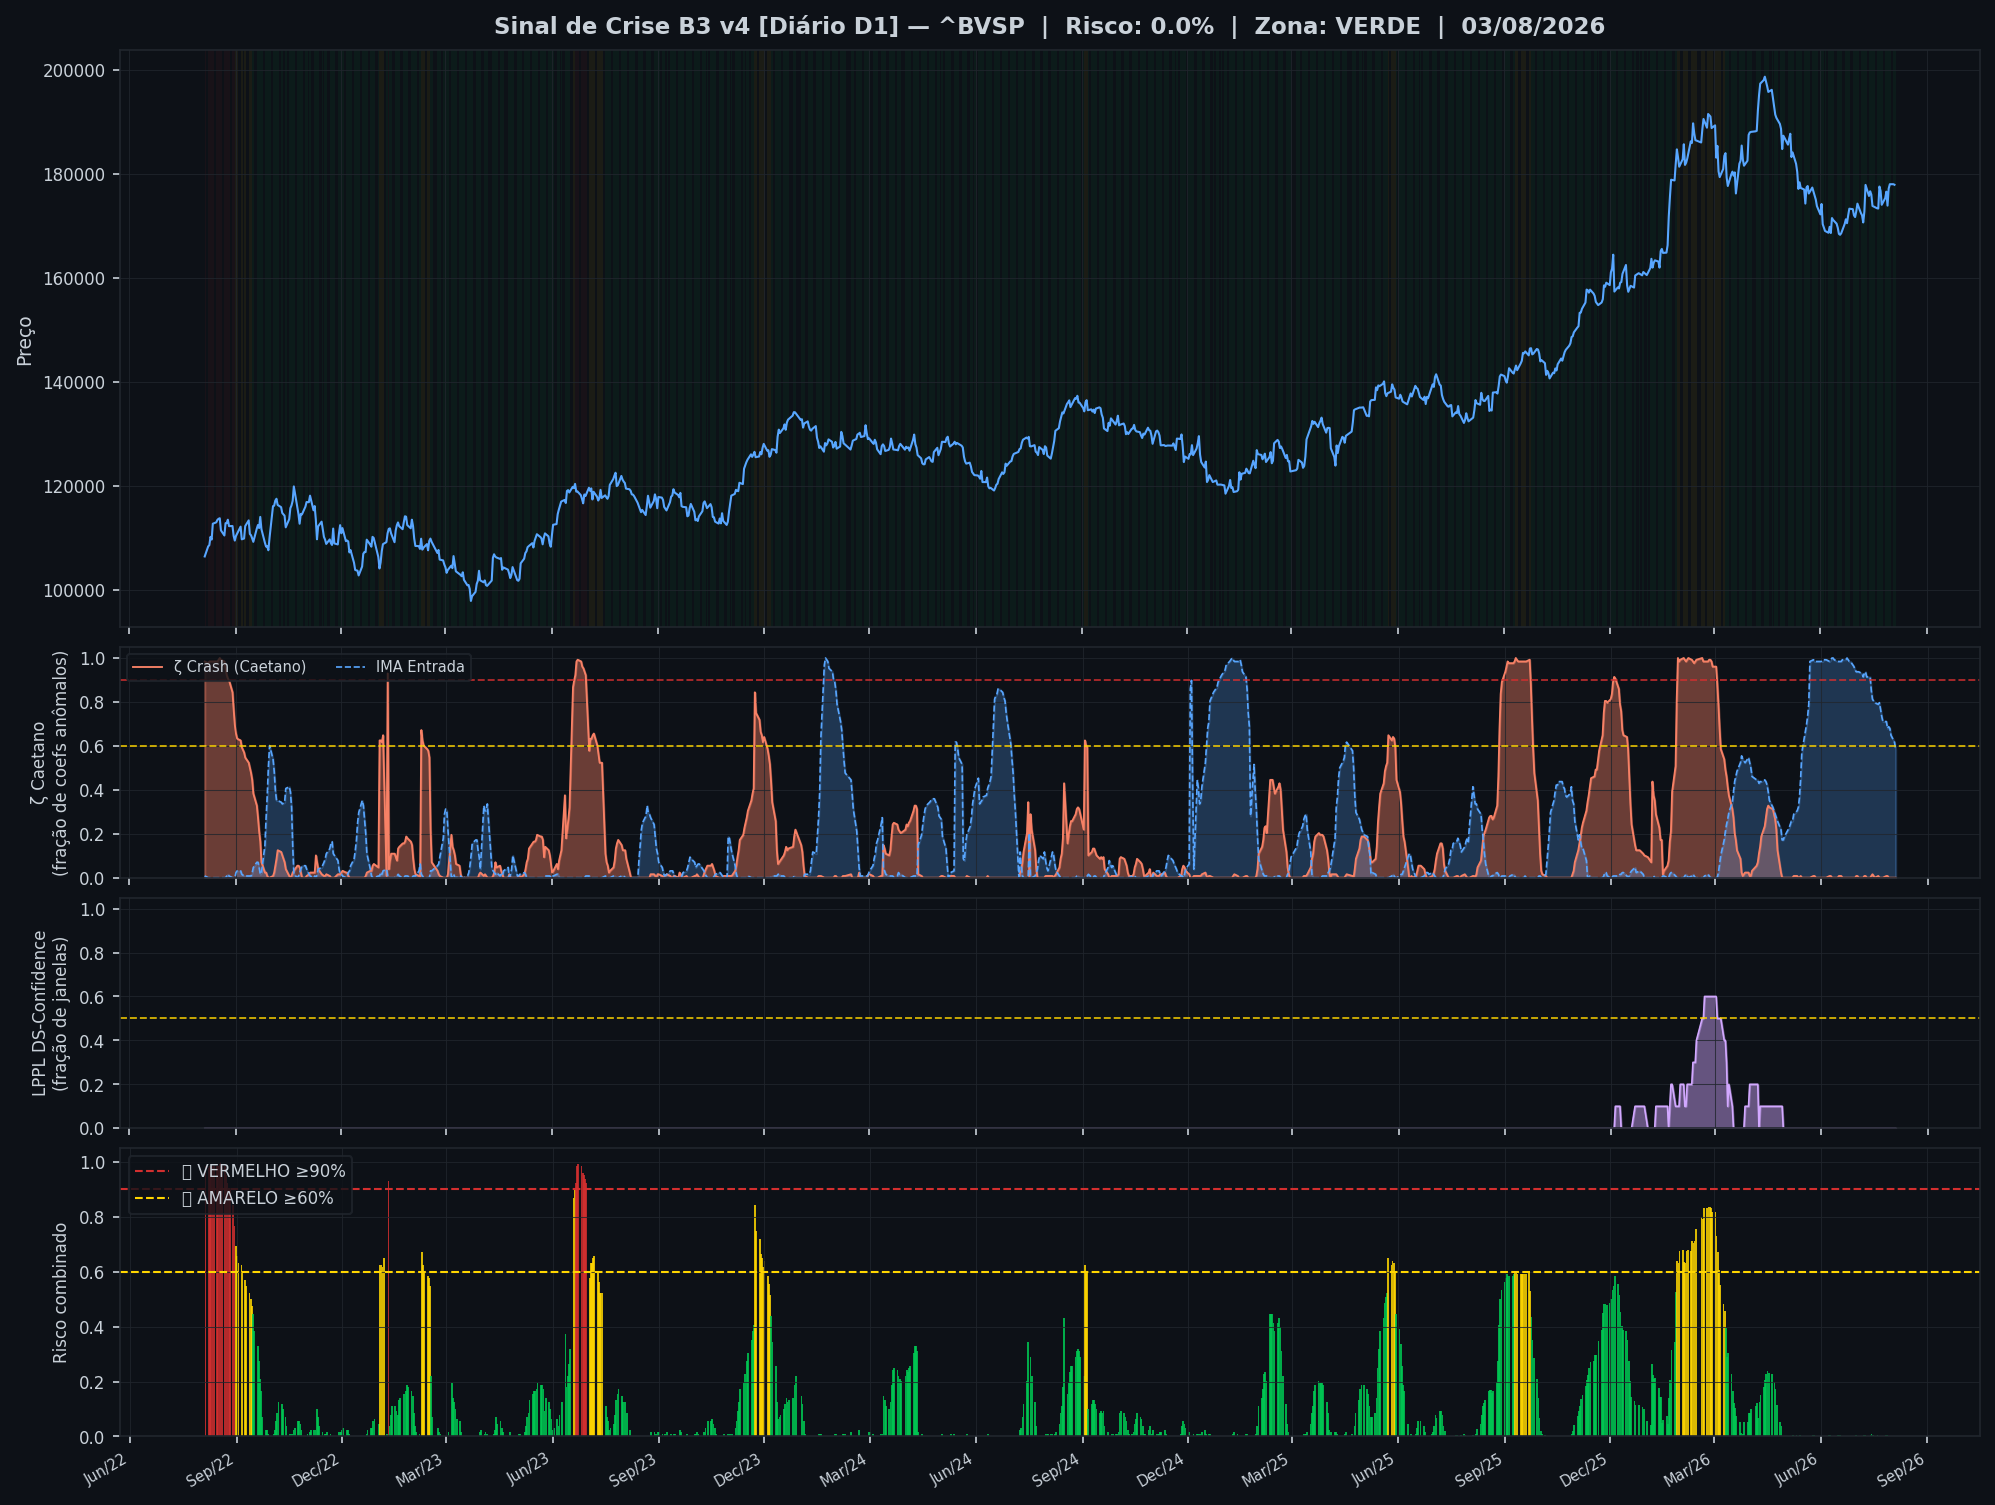
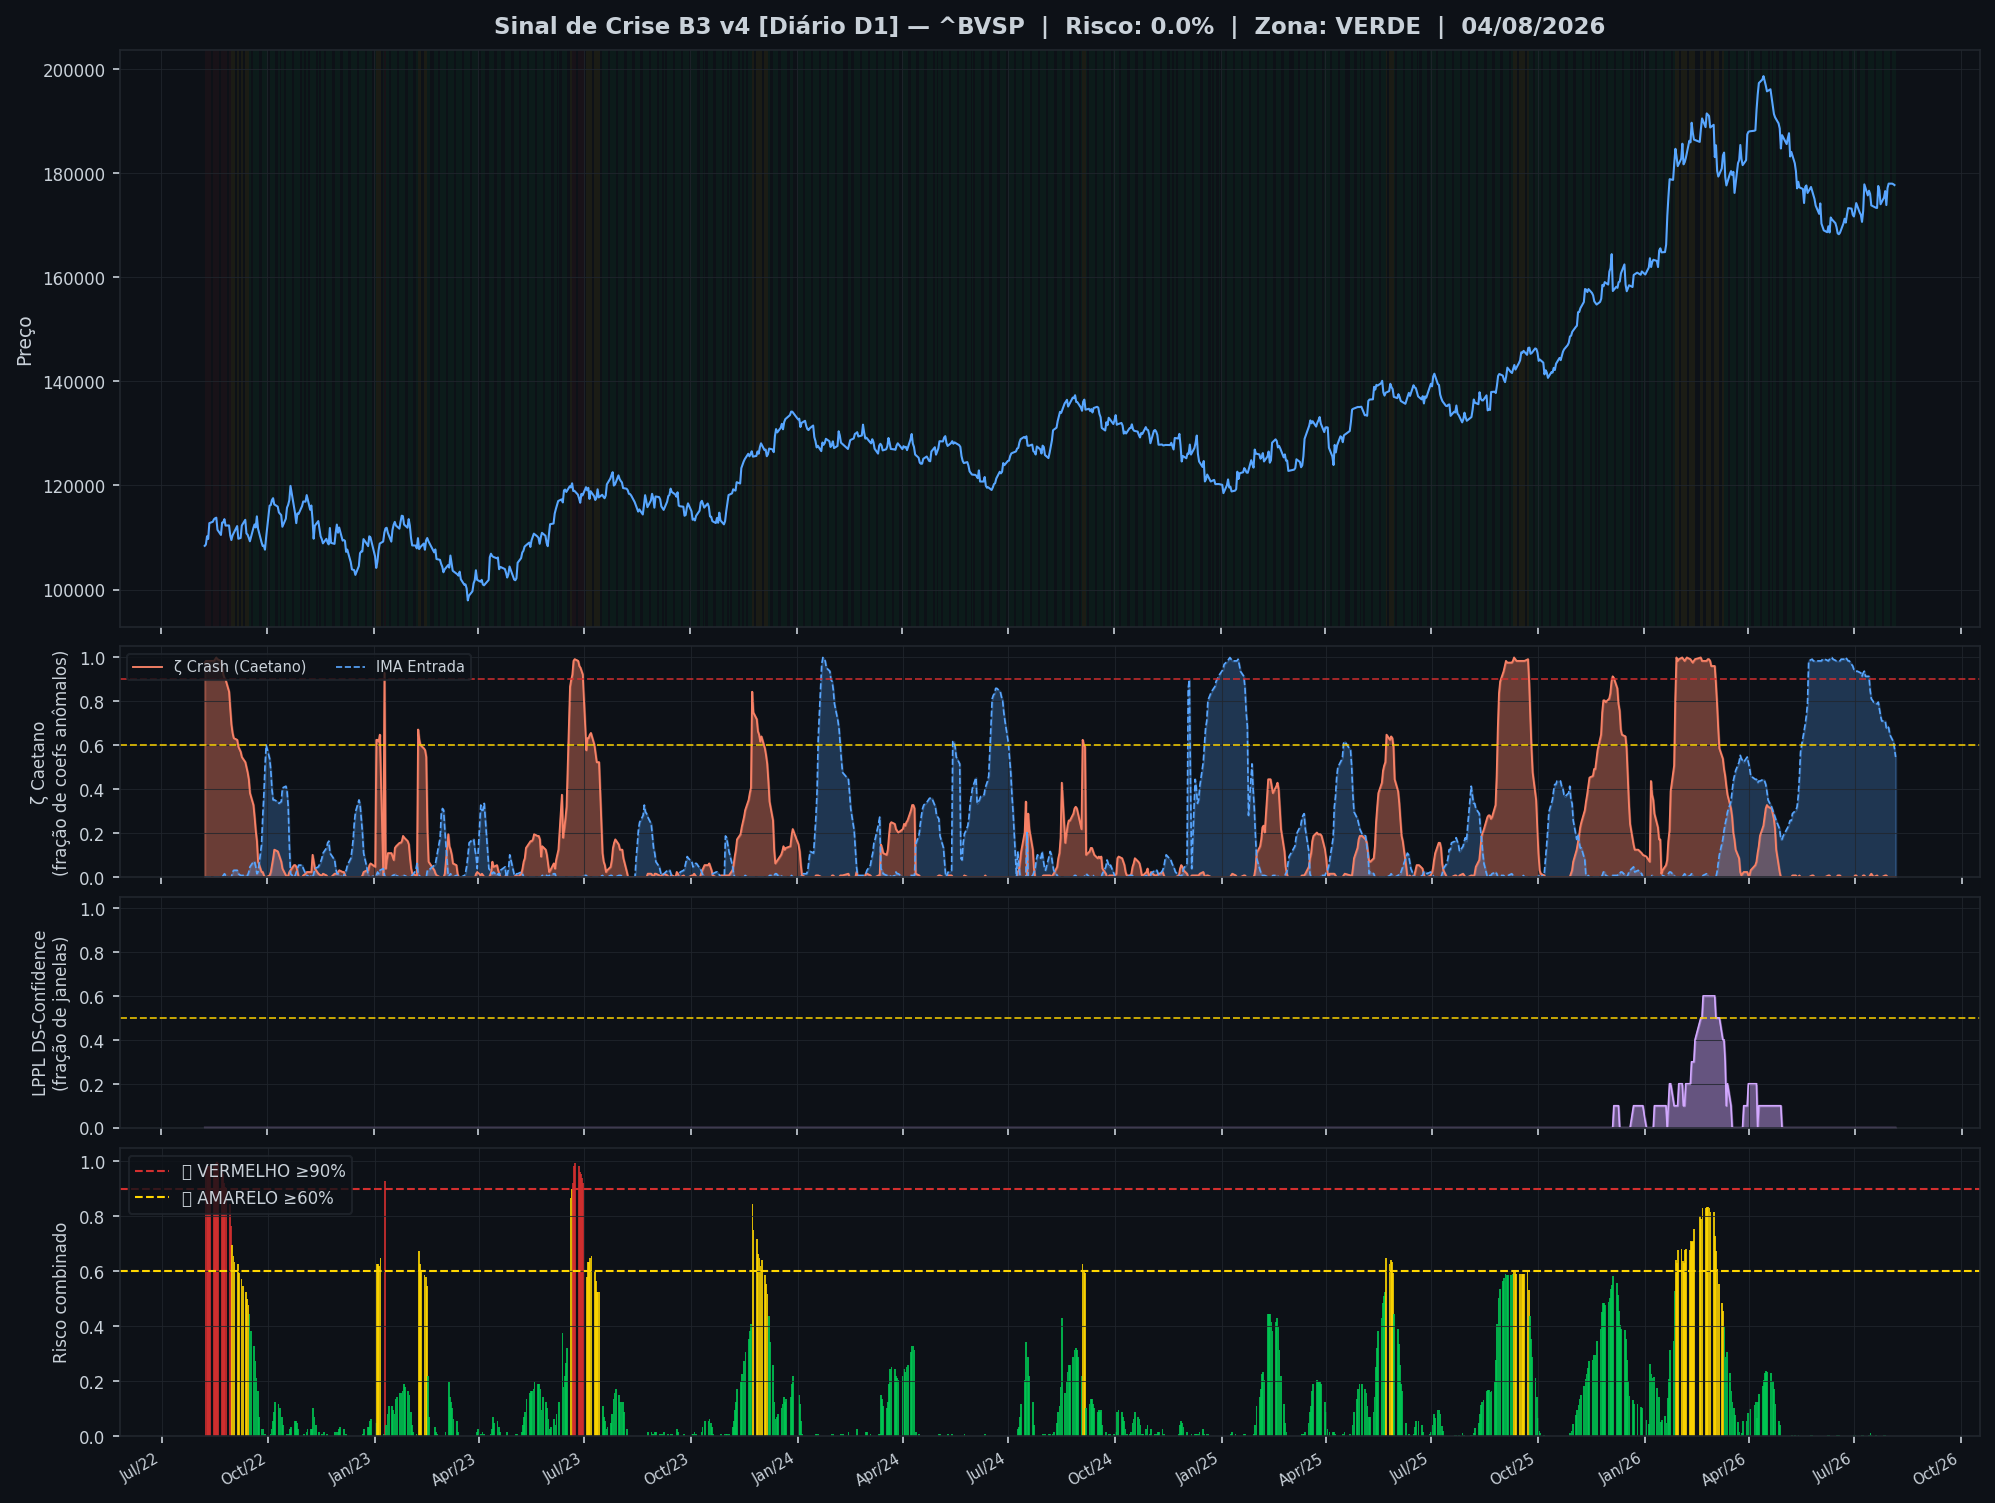
🤖 Auto: Sinal 05/08/2026 19:00

diff --git a/content/diario/2026-08-04.md b/content/diario/2026-08-04.md
@@ -1,0 +1,105 @@
+---
+title: "🟢 Diário 04/08/2026 — VERDE"
+date: 2026-08-05
+tags: [diario]
+---
+
+> [!success] 🟢 **VERDE** — Risco 0% · ＝ +0 p.p. vs leitura anterior
+> `░░░░░░░░░░░░░░░░░░░░`
+> Mercado sem sinais relevantes de estresse.
+
+
+| Indicador | Valor |
+|---|---|
+| 🔴 ζ Crash — severidade da queda em curso | **0%** |
+| 🔵 ζ Entrada — estrutura de fundo | 55% |
+| 🫧 LPPL DS-Confidence | 0% |
+| 📊 Ibovespa | 177.726 pts |
+
+![Gráfico do sinal](../graficos/sinal_diario.png)
+
+## Últimos 30 pregões
+
+| Data | Zona | Risco | IMA Crash | Entrada | LPPL |
+|---|---|---|---|---|---|
+| 2026-08-04 21:00 | 🟢 VERDE | **0%** | 0% | 55% | 0% |
+| 2026-08-03 21:00 | 🟢 VERDE | **0%** | 0% | 59% | 0% |
+| 2026-08-02 21:00 | 🟢 VERDE | **0%** | 0% | 62% | 0% |
+| 2026-07-30 21:00 | 🟢 VERDE | **0%** | 0% | 65% | 0% |
+| 2026-07-29 21:00 | 🟢 VERDE | **0%** | 0% | 68% | 0% |
+| 2026-07-28 21:00 | 🟢 VERDE | **0%** | 0% | 69% | 0% |
+| 2026-07-27 21:00 | 🟢 VERDE | **0%** | 1% | 68% | 0% |
+| 2026-07-26 21:00 | 🟢 VERDE | **0%** | 1% | 71% | 0% |
+| 2026-07-23 21:00 | 🟢 VERDE | **0%** | 0% | 71% | 0% |
+| 2026-07-22 21:00 | 🟢 VERDE | **0%** | 0% | 73% | 0% |
+| 2026-07-21 21:00 | 🟢 VERDE | **0%** | 0% | 77% | 0% |
+| 2026-07-20 21:00 | 🟢 VERDE | **0%** | 0% | 80% | 0% |
+| 2026-07-19 21:00 | 🟢 VERDE | **0%** | 1% | 79% | 0% |
+| 2026-07-16 21:00 | 🟢 VERDE | **0%** | 0% | 80% | 0% |
+| 2026-07-15 21:00 | 🟢 VERDE | **0%** | 1% | 80% | 0% |
+| 2026-07-14 21:00 | 🟢 VERDE | **1%** | 2% | 81% | 0% |
+| 2026-07-13 21:00 | 🟢 VERDE | **0%** | 1% | 85% | 0% |
+| 2026-07-12 21:00 | 🟢 VERDE | **0%** | 0% | 91% | 0% |
+| 2026-07-09 21:00 | 🟢 VERDE | **0%** | 0% | 91% | 0% |
+| 2026-07-08 21:00 | 🟢 VERDE | **0%** | 1% | 94% | 0% |
+| 2026-07-07 21:00 | 🟢 VERDE | **0%** | 1% | 93% | 0% |
+| 2026-07-06 21:00 | 🟢 VERDE | **0%** | 0% | 91% | 0% |
+| 2026-07-05 21:00 | 🟢 VERDE | **0%** | 0% | 93% | 0% |
+| 2026-07-02 21:00 | 🟢 VERDE | **0%** | 0% | 94% | 0% |
+| 2026-07-01 21:00 | 🟢 VERDE | **0%** | 1% | 94% | 0% |
+| 2026-06-30 21:00 | 🟢 VERDE | **0%** | 1% | 94% | 0% |
+| 2026-06-29 21:00 | 🟢 VERDE | **0%** | 0% | 95% | 0% |
+| 2026-06-28 21:00 | 🟢 VERDE | **0%** | 0% | 96% | 0% |
+| 2026-06-25 21:00 | 🟢 VERDE | **0%** | 0% | 98% | 0% |
+| 2026-06-24 21:00 | 🟢 VERDE | **0%** | 0% | 98% | 0% |
+
+## Monitor Multi-Ativo
+
+**0% dos ativos em tensão** (0🔴 0🟡) — quanto mais ativos disparam juntos, mais confiável o sinal.
+
+| Zona | Ativo | Setor | IMA Crash | IMA Entrada |
+|---|---|---|---|---|
+| 🟢 | **USD/BRL** | Câmbio | 68.8% | 1.6% |
+| 🟢 | **VALE** | Mineração | 60.9% | 0.8% |
+| 🟢 | **ITAUUNIBANCO** | Financeiro | 60.9% | 0.8% |
+| 🟢 | **PETROBRAS** | Petróleo | 60.9% | 0.8% |
+| 🟢 | **AXIA ENERGIA** | Energia | 60.9% | 0.8% |
+| 🟢 | **PETROBRAS** | Petróleo | 60.9% | 0.8% |
+| 🟢 | **BRADESCO** | Financeiro | 60.9% | 0.8% |
+| 🟢 | **ITAUSA** | Financeiro | 60.9% | 0.8% |
+| 🟢 | **SABESP** | Saneamento | 60.9% | 0.8% |
+| 🟢 | **B3** | Financeiro | 60.9% | 0.8% |
+| 🟢 | **WEG** | Industrial | 60.9% | 0.8% |
+| 🟢 | **AMBEV S/A** | Consumo | 60.9% | 0.8% |
+| 🟢 | **BTGP BANCO** | Financeiro | 60.9% | 0.8% |
+| 🟢 | **EMBRAER** | Outros | 60.9% | 0.8% |
+| 🟢 | **BRASIL** | Financeiro | 60.9% | 0.8% |
+| 🟢 | **ENEVA** | Energia | 60.9% | 0.8% |
+| 🟢 | **EQUATORIAL** | Energia | 60.9% | 0.8% |
+| 🟢 | **COPEL** | Energia | 60.9% | 0.8% |
+| 🟢 | **PRIO** | Petróleo | 60.9% | 0.8% |
+| 🟢 | **VIBRA** | Energia | 60.9% | 0.8% |
+| 🟢 | **LOCALIZA** | Aluguel | 60.9% | 0.8% |
+| 🟢 | **REDE D OR** | Saúde | 60.9% | 0.8% |
+| 🟢 | **ULTRAPAR** | Outros | 60.9% | 0.8% |
+| 🟢 | **GERDAU** | Siderurgia | 60.9% | 0.8% |
+| 🟢 | **SUZANO S.A.** | Papel/Celulose | 60.9% | 0.8% |
+| 🟢 | **BBSEGURIDADE** | Financeiro | 60.9% | 0.8% |
+| 🟢 | **RAIADROGASIL** | Outros | 60.9% | 0.8% |
+
+![Monitor multi-ativo](../graficos/multi_diario.png)
+
+*Página atualizada em 05/08/2026 19:00 BRT (leitura da barra de 2026-08-04 BRT).*
+
+> [!info]- Como interpretar (clique para expandir)
+> - **ζ Crash**: fração dos coeficientes wavelet acima do corte (Caetano & Yoneyama 2009). Escala absoluta: ζ=0,90 = 90% dos coeficientes anômalos — historicamente, quedas com ζ≥0,90 foram mais fundas e mais longas. **Mede a severidade do movimento em curso, não prevê o início da queda.**
+> - **ζ Entrada**: coeficientes negativos além do corte — estrutura de fundo, possível região de compra.
+> - **LPPL DS-Confidence**: fração de janelas (60–504 pregões) em que o modelo de bolha de Sornette produz um ajuste válido. 30% já é relevante; acima de 50% é forte evidência de estrutura de bolha.
+> - **Zonas com histerese**: o sinal só muda de zona ao cruzar o limiar de entrada, e só volta ao cruzar o de saída — evita flip-flop diário.
+
+
+---
+*Sinal de Crise B3 v4 · IMA Wavelet ([Caetano & Yoneyama, Physica-A 2007](https://doi.org/10.1016/j.physa.2007.03.054)) + LPPL DS-Confidence (Sornette, ETH-Zurich) · [Metodologia](metodologia) · [Histórico](historico)*
+
+> [!quote]- Aviso
+> Estudo acadêmico. Não constitui recomendação de investimento.

diff --git a/content/index.md b/content/index.md
@@ -8,7 +8,7 @@ tags: [home]
 
 Monitoramento diário e intraday do Ibovespa — **IMA Wavelet** (Prof. Marco Antonio Leonel Caetano, ITA/INSPER) + **LPPL DS-Confidence** (Prof. Didier Sornette, ETH-Zurich).
 
-*Última atualização: 05/08/2026 17:30 BRT · ^BVSP · Intraday 15min · v4*
+*Última atualização: 05/08/2026 19:00 BRT · ^BVSP · Diário D1 · v4*
 
 > [!success] 🟢 **VERDE** — Risco 0% · ＝ +0 p.p. vs leitura anterior
 > `░░░░░░░░░░░░░░░░░░░░`
@@ -18,9 +18,9 @@ Monitoramento diário e intraday do Ibovespa — **IMA Wavelet** (Prof. Marco An
 | Indicador | Valor |
 |---|---|
 | 🔴 ζ Crash — severidade da queda em curso | **0%** |
-| 🔵 ζ Entrada — estrutura de fundo | 98% |
+| 🔵 ζ Entrada — estrutura de fundo | 55% |
 | 🫧 LPPL DS-Confidence | 0% |
-| 📊 Ibovespa | 177.808 pts |
+| 📊 Ibovespa | 177.726 pts |
 
 **Multi-ativo:** 0% em tensão (0🔴 0🟡 de 27 ativos)
 
@@ -32,8 +32,13 @@ Monitoramento diário e intraday do Ibovespa — **IMA Wavelet** (Prof. Marco An
 
 | Data | Zona | Risco | IMA | LPPL |
 |---|---|---|---|---|
-| [05 Aug 2026](diario/2026-08-05) | 🟢 VERDE | **0%** | 0% | 0% |
 | [04 Aug 2026](diario/2026-08-04) | 🟢 VERDE | **0%** | 0% | 0% |
+| [03 Aug 2026](diario/2026-08-03) | 🟢 VERDE | **0%** | 0% | 0% |
+| [02 Aug 2026](diario/2026-08-02) | 🟢 VERDE | **0%** | 0% | 0% |
+| [30 Jul 2026](diario/2026-07-30) | 🟢 VERDE | **0%** | 0% | 0% |
+| [29 Jul 2026](diario/2026-07-29) | 🟢 VERDE | **0%** | 0% | 0% |
+| [28 Jul 2026](diario/2026-07-28) | 🟢 VERDE | **0%** | 0% | 0% |
+| [27 Jul 2026](diario/2026-07-27) | 🟢 VERDE | **0%** | 1% | 0% |
 
 ## Navegação
 

diff --git a/content/historico.md b/content/historico.md
@@ -7,6 +7,7 @@ tags: [historico]
 
 | Data | Modo | Zona | Risco | IMA | LPPL |
 |---|---|---|---|---|---|
+| 2026-08-04 | diario | 🟢 VERDE | 0% | 0% | 0% |
 | 2026-08-05 16:45 | intraday | 🟢 VERDE | 0% | 0% | 0% |
 | 2026-08-05 16:30 | intraday | 🟢 VERDE | 0% | 0% | 0% |
 | 2026-08-05 16:15 | intraday | 🟢 VERDE | 0% | 0% | 0% |
